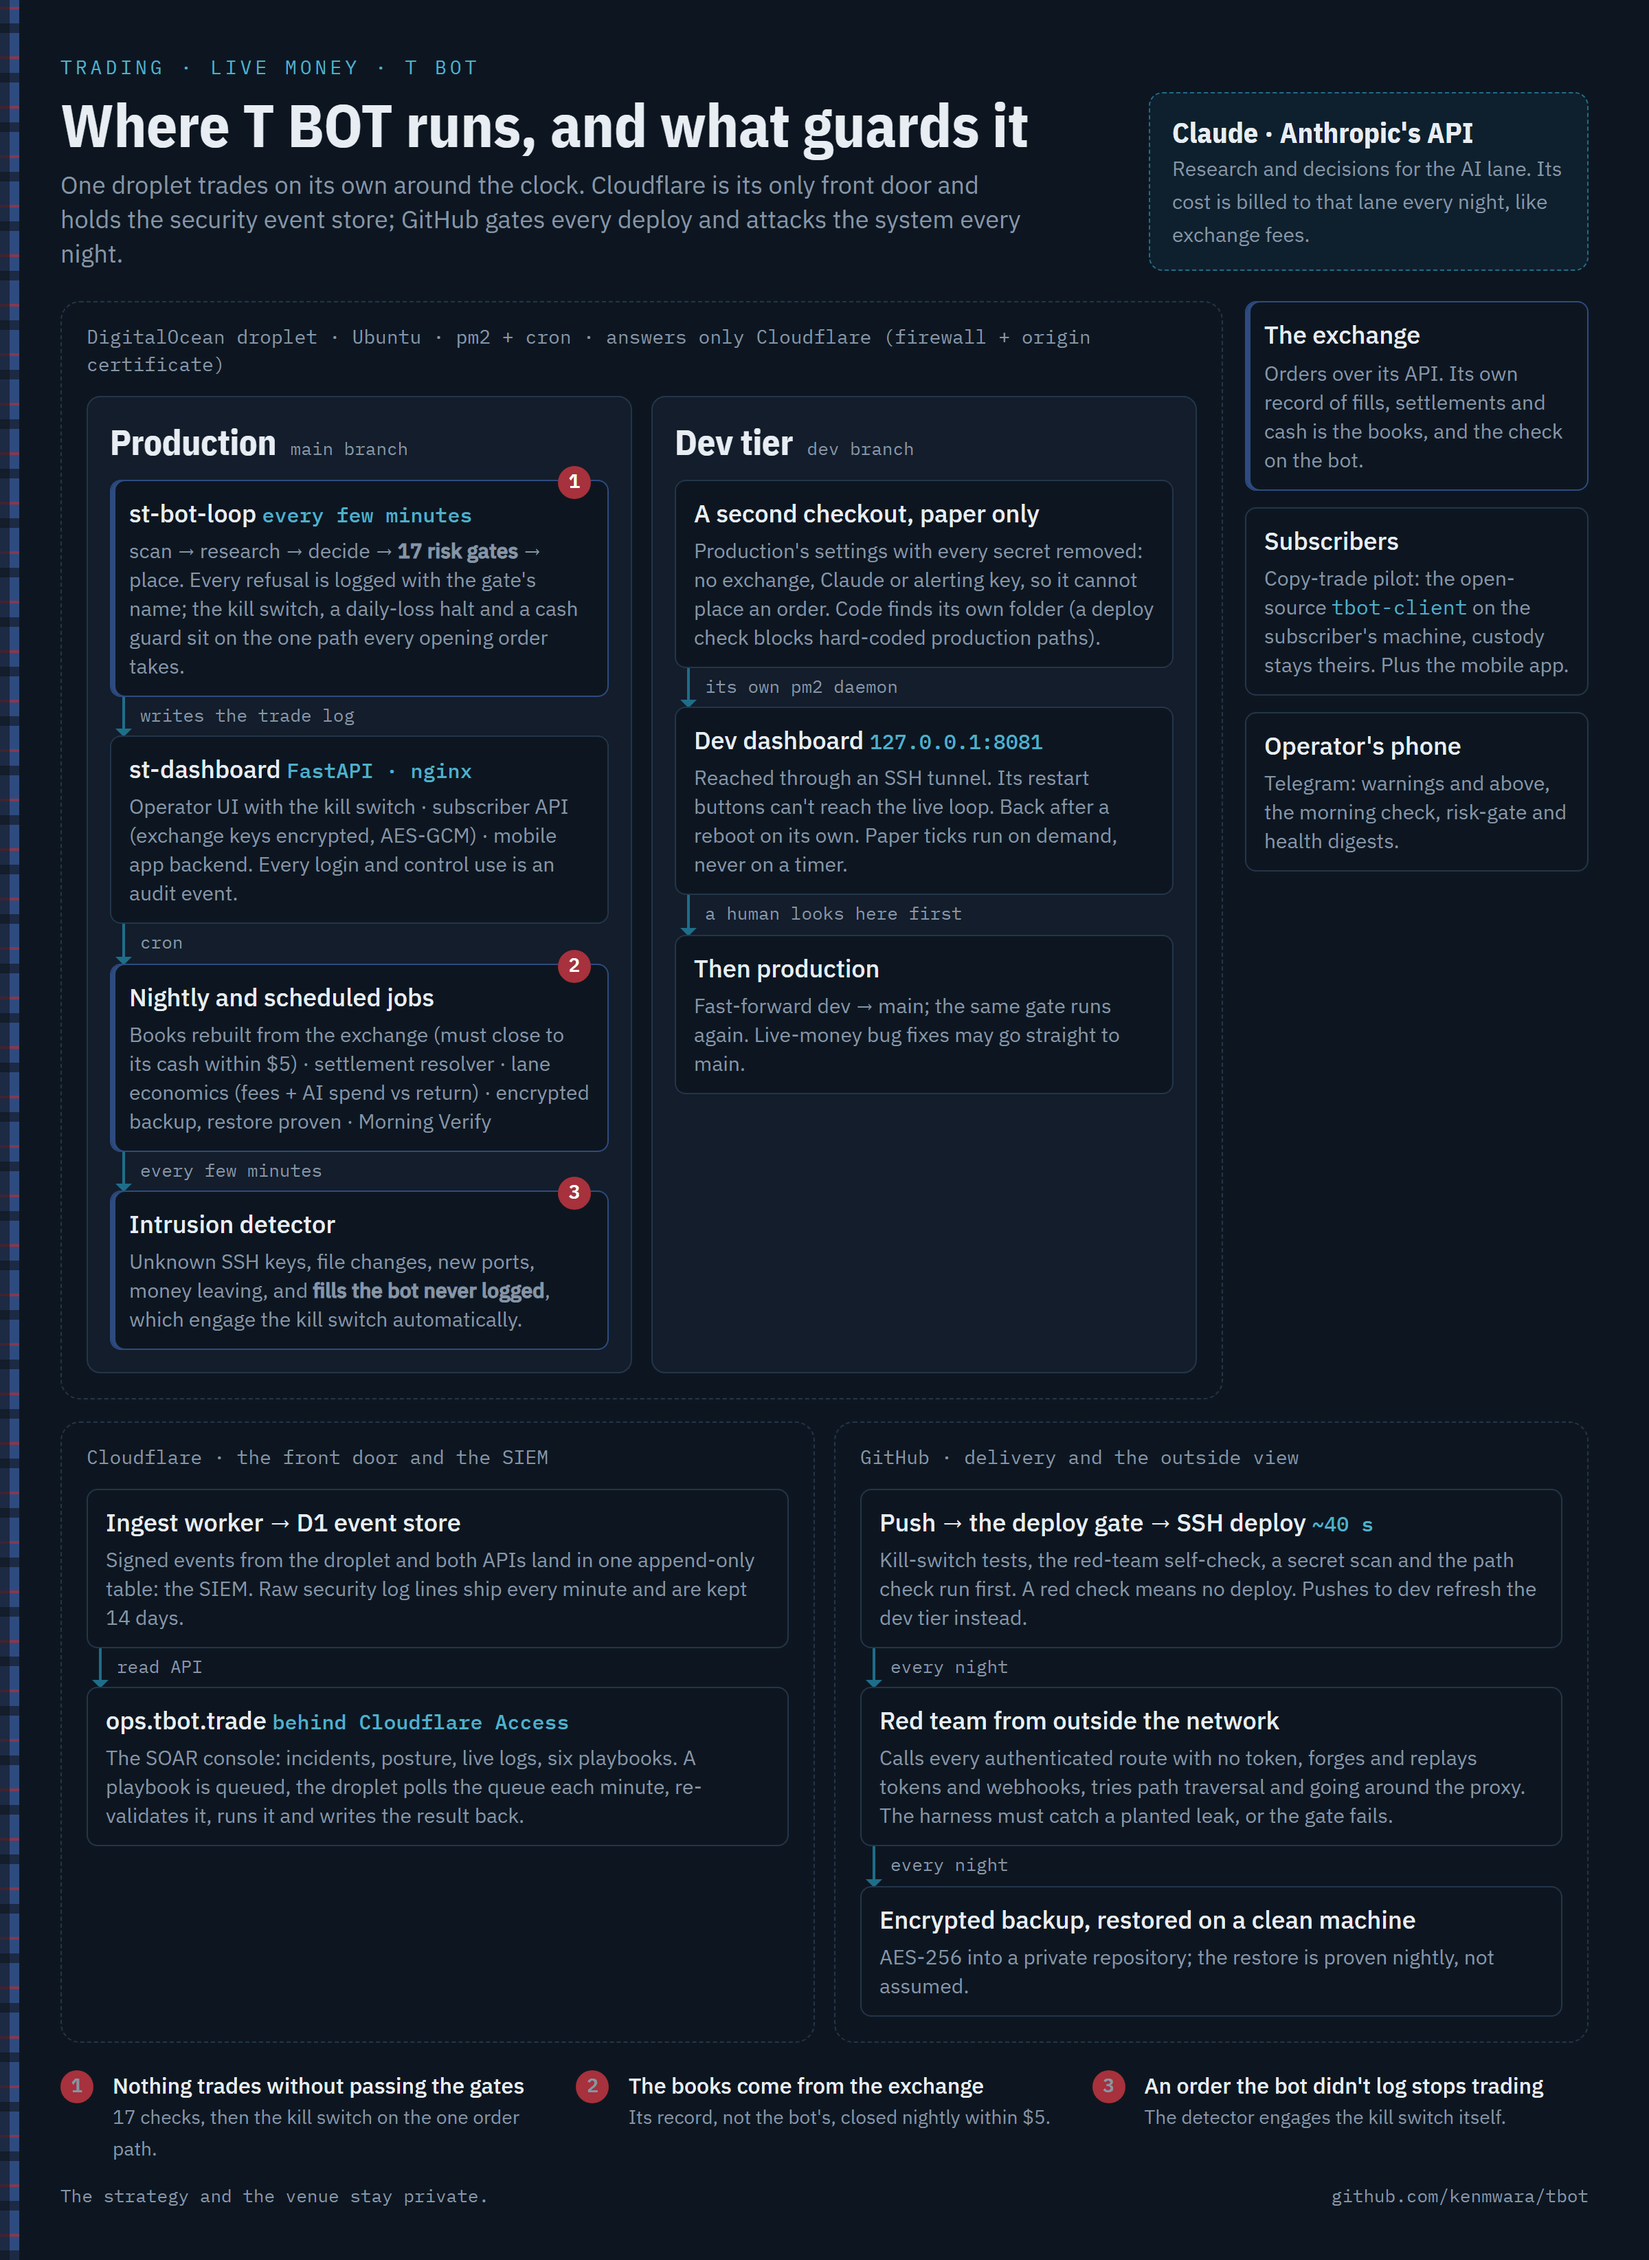
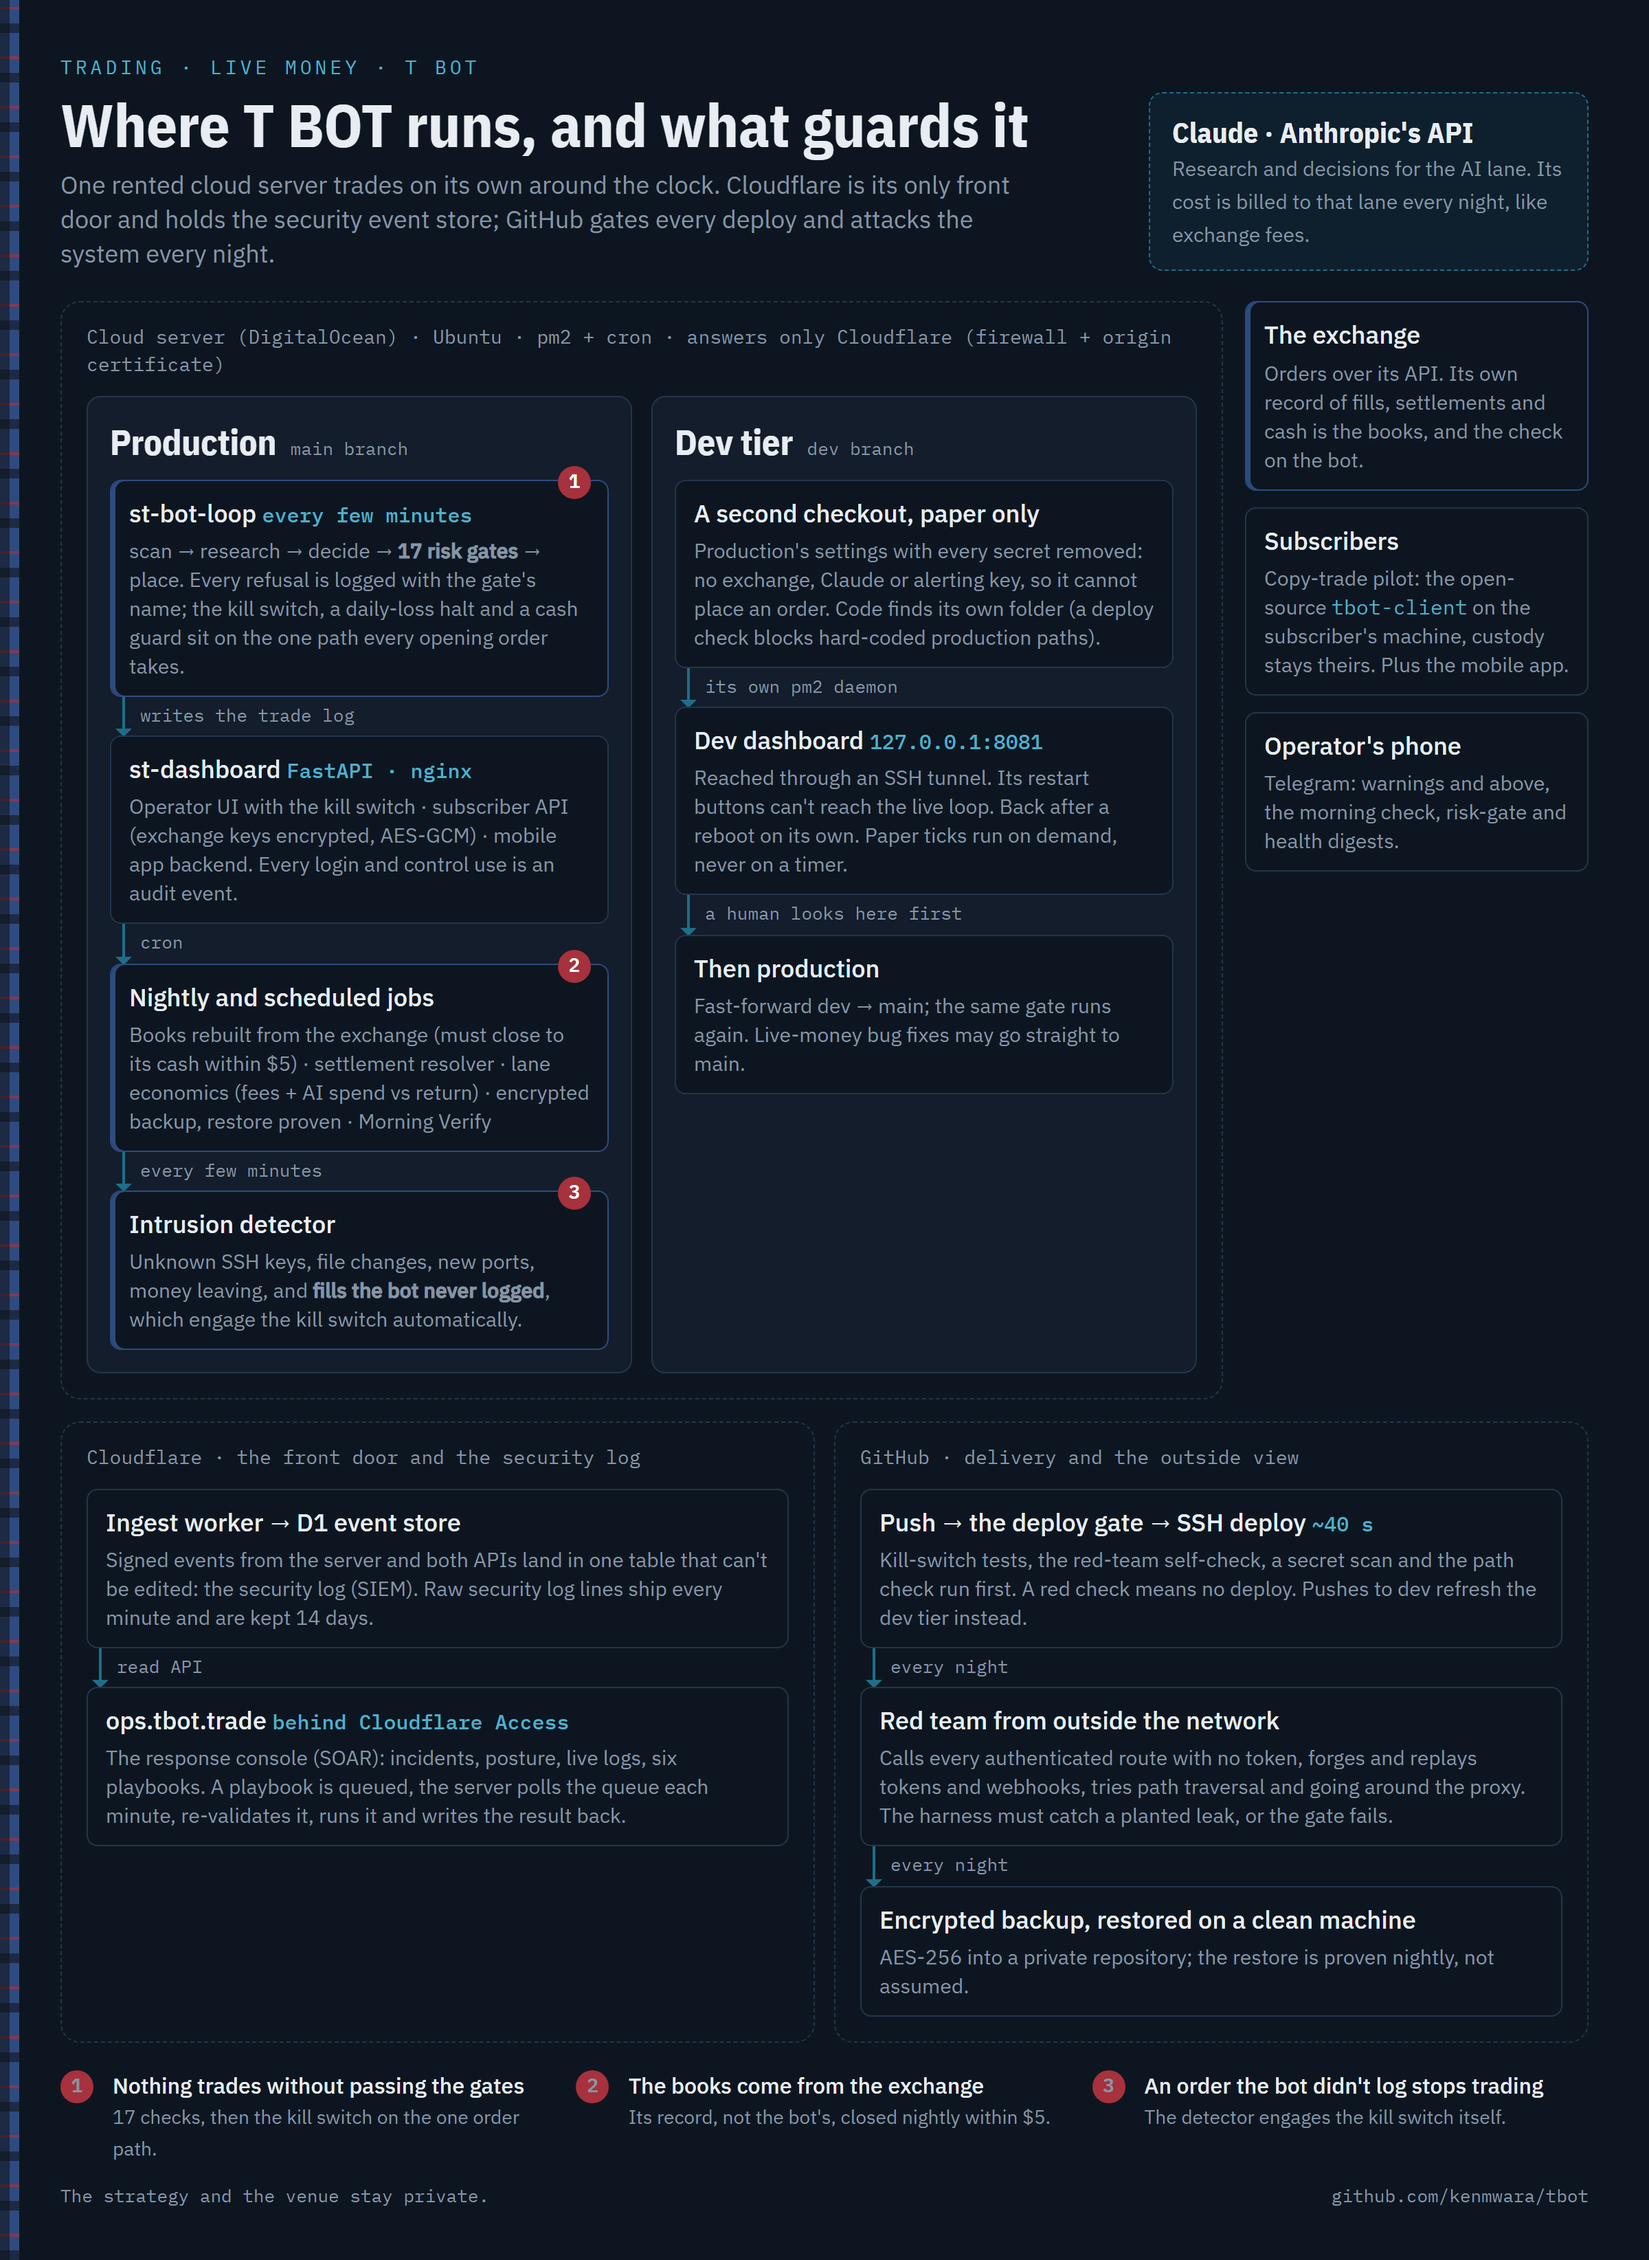
docs: plain-English architecture diagram and README wording (audit 28 Oct)

Changed region(s): [[0.0312, 0.062, 0.5938, 0.1241], [0.0625, 0.6825, 0.4688, 0.7135], [0.0625, 0.7755, 0.4062, 0.8066]]

diff --git a/README.md b/README.md
@@ -66,7 +66,7 @@ In August 2026 the droplet was destroyed with no snapshot. It was rebuilt from g
 ## Architecture
 
 
-<img src="images/architecture.png" width="100%" alt="Architecture diagram of T BOT. A DigitalOcean droplet that answers only Cloudflare runs production (main branch): st-bot-loop scans, researches, decides, passes 17 risk gates and places orders, with the kill switch on the one order path; st-dashboard serves the operator UI, the subscriber API and the mobile app backend; cron rebuilds the books from the exchange nightly (closing to its cash within 5 dollars), runs lane economics, an encrypted backup and Morning Verify; an intrusion detector flags unknown keys, file changes, new ports and fills the bot never logged, which engage the kill switch. A paper-only dev tier on the dev branch has no exchange, Claude or alerting key and its own pm2 daemon. Outside: the exchange, subscribers running tbot-client, the operator's phone on Telegram, Claude for the AI lane. Cloudflare holds the ingest worker, the D1 event store (the SIEM) and the SOAR console behind Access; GitHub runs the deploy gate, a nightly red team and the nightly encrypted backup with a proven restore.">
+<img src="images/architecture.png" width="100%" alt="Architecture diagram of T BOT. A DigitalOcean cloud server that answers only Cloudflare runs production (main branch): st-bot-loop scans, researches, decides, passes 17 risk gates and places orders, with the kill switch on the one order path; st-dashboard serves the operator UI, the subscriber API and the mobile app backend; cron rebuilds the books from the exchange nightly (closing to its cash within 5 dollars), runs lane economics, an encrypted backup and Morning Verify; an intrusion detector flags unknown keys, file changes, new ports and fills the bot never logged, which engage the kill switch. A paper-only dev tier on the dev branch has no exchange, Claude or alerting key and its own pm2 daemon. Outside: the exchange, subscribers running tbot-client, the operator's phone on Telegram, Claude for the AI lane. Cloudflare holds the ingest worker, the D1 event store (the SIEM) and the SOAR console behind Access; GitHub runs the deploy gate, a nightly red team and the nightly encrypted backup with a proven restore.">
 
 ## Tech stack
 
